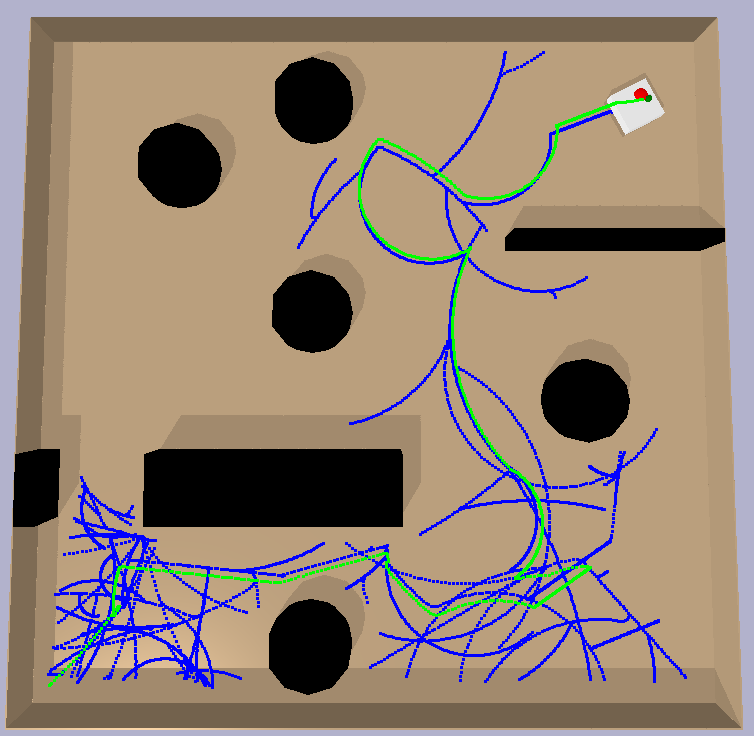
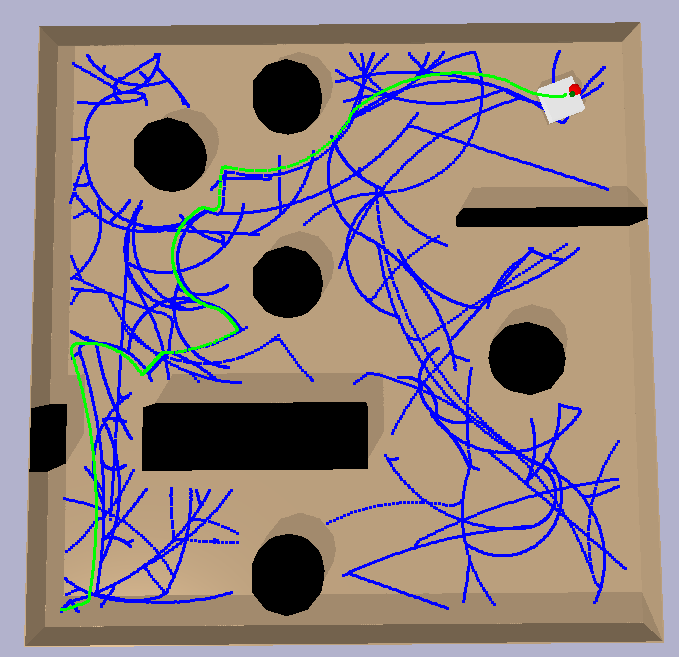
final tune

diff --git a/demo.py b/demo.py
@@ -180,7 +180,10 @@ def path_quality(explored, path):
     quality_2 = 0
     for i in range(nodenum-1):
         quality_1 += np.sqrt((path[i][0]-path[i+1][0])**2+(path[i][1]-path[i+1][1])**2)
-        quality_2 += np.sqrt((path[i][0]-path[i+1][0])**2+(path[i][1]-path[i+1][1])**2+(path[i][2]-path[i+1][2])**2)
+        dtheta = abs(path[i][2]-path[i+1][2])
+        if dtheta > np.pi:
+            dtheta = 2*np.pi - dtheta
+        quality_2 += np.sqrt((path[i][0]-path[i+1][0])**2+(path[i][1]-path[i+1][1])**2+dtheta**2)
     return totalnodes, nodenum, quality_1, quality_2
 def draw_sphere_markers(configs, color,z, marker_size=3.):
     """
@@ -220,7 +223,7 @@ def main(screenshot=False):
     print()
     print("Building RRT...")
     print("We will show the search trees(blue) and executed path(green) in this program.")
-    print("This program is expected to run for 4~10 minutes (incluing drawing paths)...")
+    print("This program is expected to run for 1~10 minutes...")
     print()
     start_config = (-4.5, 4.5, 0, 0, 0, 0)
     goal_config = (4.0, -4.0, -np.pi/2, 0, 0, 0)

diff --git a/README.md b/README.md
@@ -3,13 +3,13 @@
 This a course project for personal use. For visualization and pybullet, I refered to https://github.com/yanglunlai/Kinodynamic-RRT-Path-Planning. Other sections are rewritten thoroughly.
 
 The first figure shows the result with 9 motion options like a car.
-![Alt text](9_path.png?raw=true "9 motion case")
+![Alt text](9_path.png?raw=true "8 motion case")
 
 The second figure shows the case that enables the lattitude control
 ![Alt text](18_path.png?raw=true "18 motion case")
 
 The third figure show the case that enables all combination of motions
-![Alt text](25_path.png?raw=true "25 motion case")
+![Alt text](25_path.png?raw=true "26 motion case")
 
 ## References
 [1]	B. Donald, P. Xavier, J. Canny, and J. Reif, “Kinodynamic motion planning,” J. ACM, vol. 40, no. 5, pp. 1048–1066, 1993.
